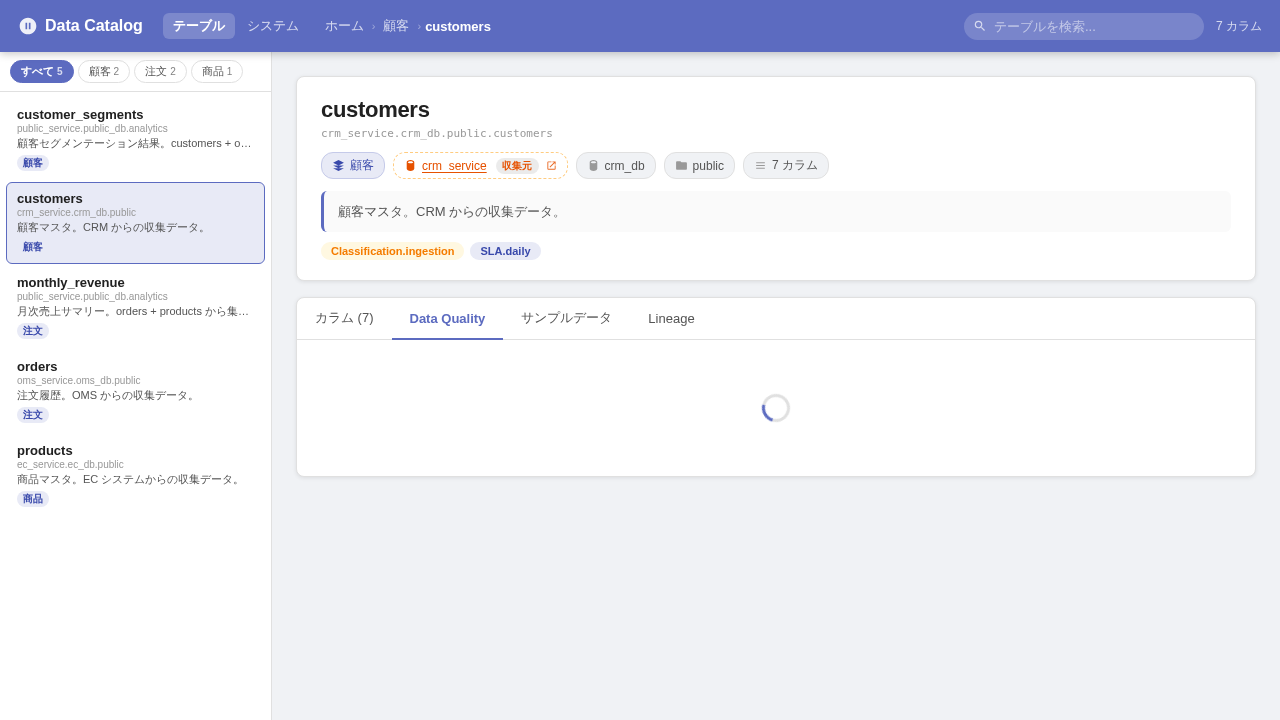
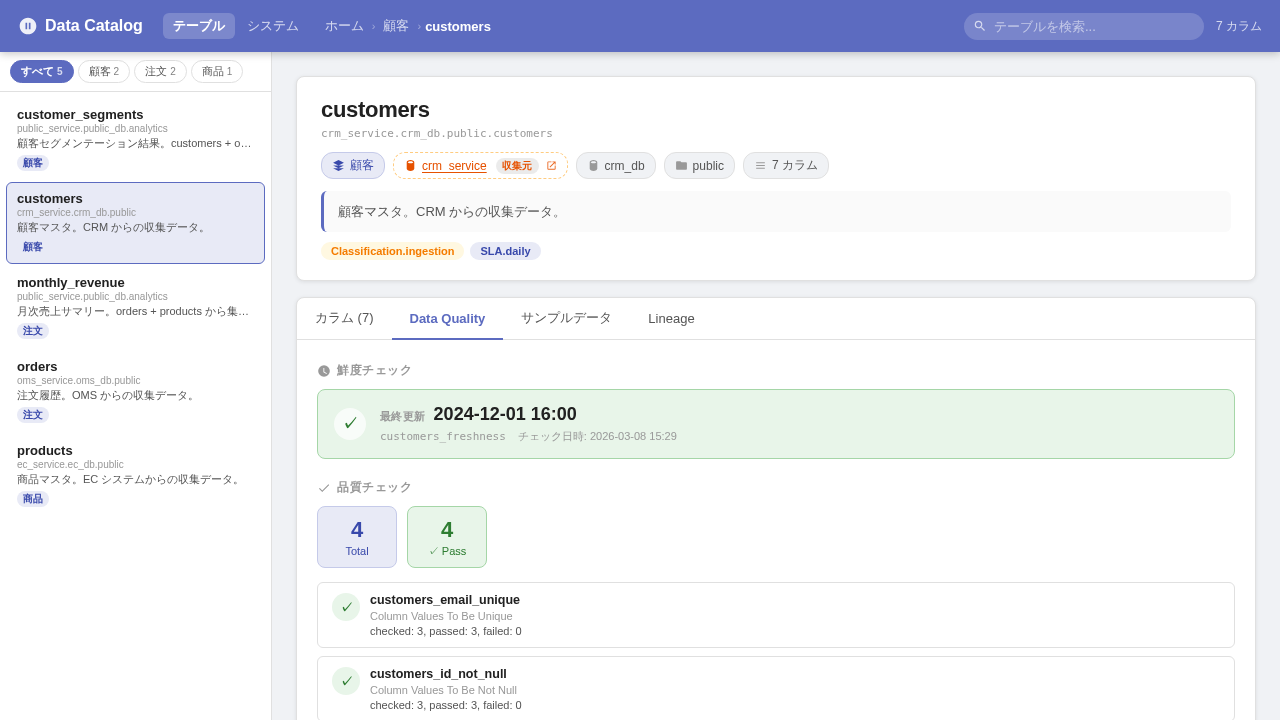
fix ui

diff --git a/catalog-ui/tests/screenshots.spec.ts b/catalog-ui/tests/screenshots.spec.ts
@@ -5,7 +5,7 @@ const SCREENSHOTS_DIR = path.resolve(__dirname, '../../docs/screenshots')
 const OM_API = 'http://127.0.0.1:8585/api/v1'
 
 async function waitLoaded(page: Page) {
-  await page.waitForSelector('.pg-loading', { state: 'detached', timeout: 15000 }).catch(() => {})
+  await page.waitForSelector('.pg-loading', { state: 'detached', timeout: 15000 }).catch(() => { })
   await page.waitForTimeout(600)
 }
 
@@ -80,7 +80,7 @@ test.describe('UI screenshots', () => {
     await page.locator('.tb', { hasText: 'Data Quality' }).click()
     // DQ データのロードを待つ
     await page.waitForSelector('.freshness-card, .tc-item, .no-data', { timeout: 10000 })
-    await page.waitForTimeout(400)
+    await page.waitForTimeout(4000)
 
     await page.screenshot({ path: path.join(SCREENSHOTS_DIR, 'data_quality.png') })
   })
